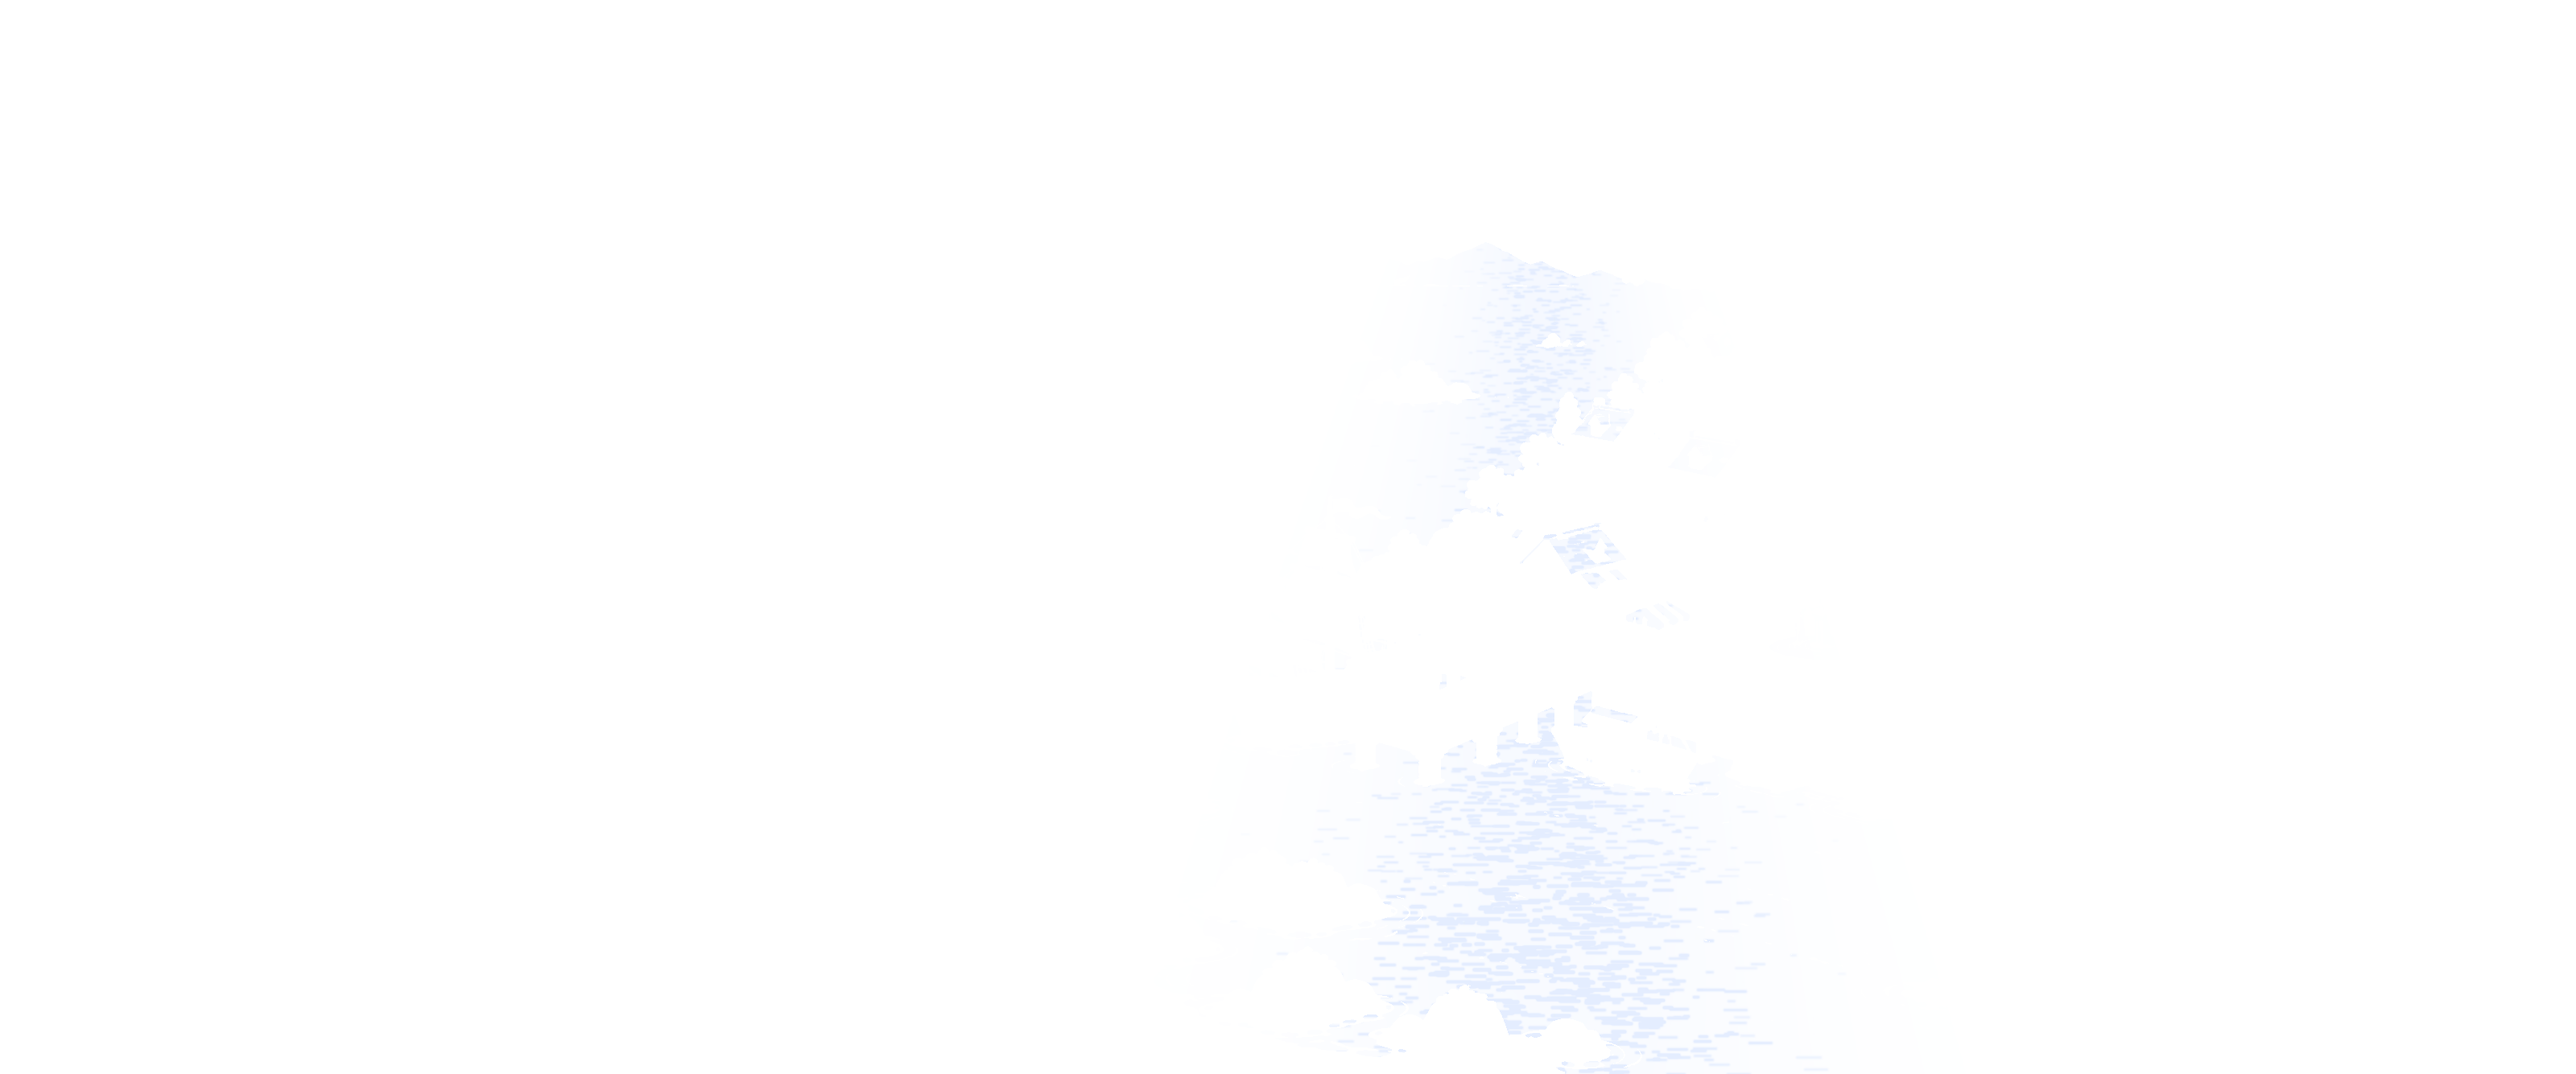
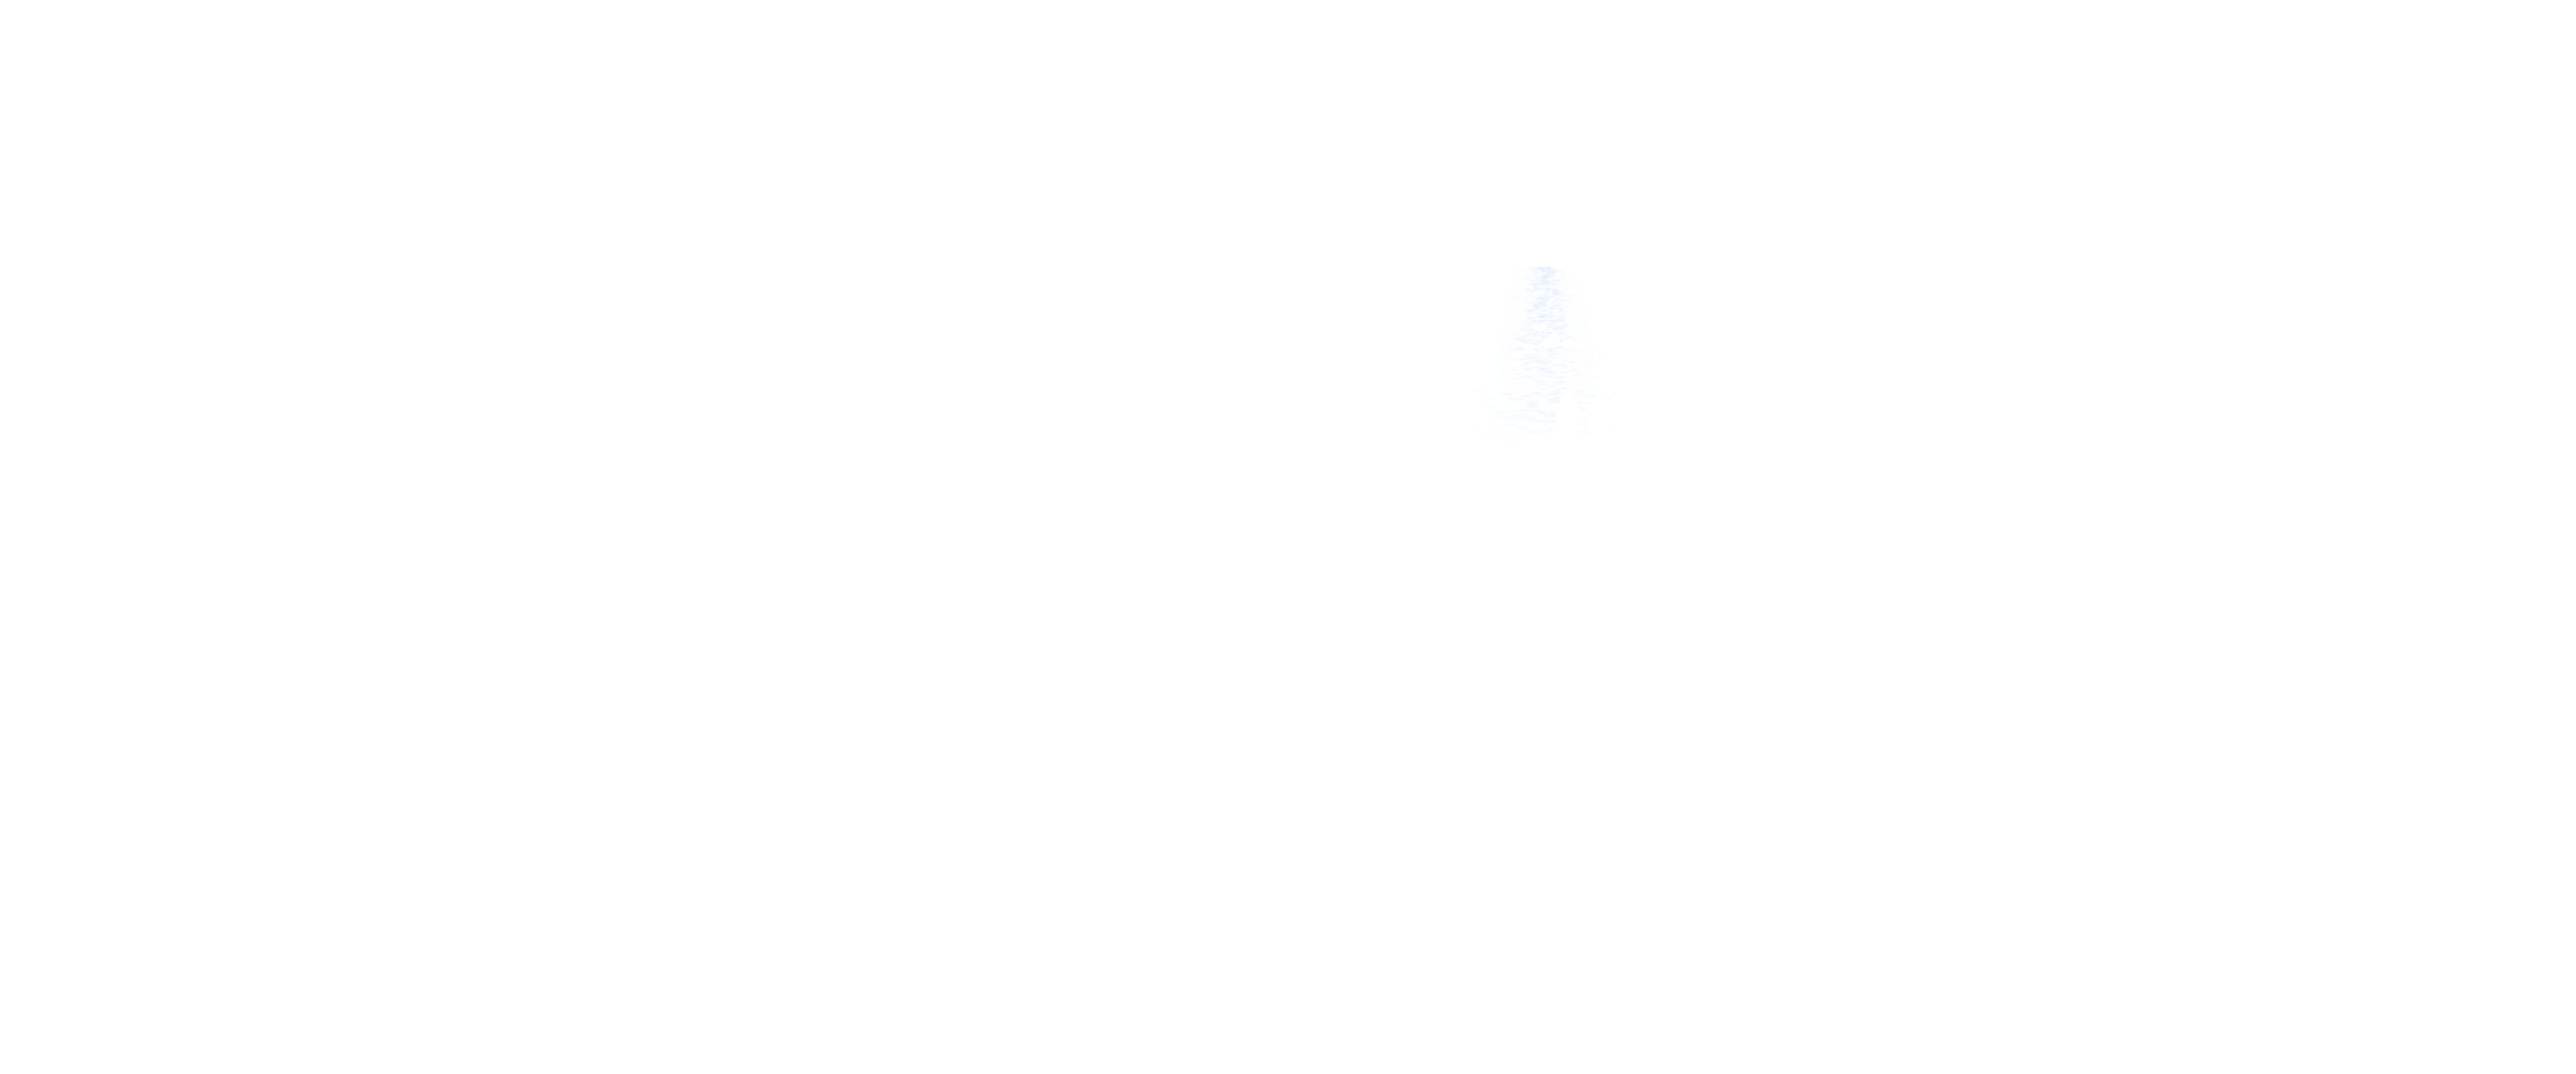
style(home): keep the moon path to the open sea and soften it
The glints stay on the sea under the moon and fade out above the harbour;
fewer, narrower and dimmer.

Changed region(s): [[0.5312, 0.6757, 0.6562, 1.0], [0.5938, 0.4914, 0.625, 0.5221]]

diff --git a/index.html b/index.html
@@ -2889,7 +2889,7 @@ assign art = '/assets/images/Redesign/' | relative_url %}
       html[data-mode="night"] .hero__birds {
         display: none;
       }
-      /* Moon path: silver glints on the water under the moon. Two glint layers cross-fade so the water shimmers. */
+      /* Moon path: soft silver glints on the open sea under the moon, fading out above the harbour. Two glint layers cross-fade so the water shimmers. */
       .hero__moonpath {
         position: absolute;
         inset: 0;
@@ -2908,10 +2908,10 @@ assign art = '/assets/images/Redesign/' | relative_url %}
       }
       @keyframes moon-shimmer {
         from {
-          opacity: 0.45;
+          opacity: 0.3;
         }
         to {
-          opacity: 1;
+          opacity: 0.85;
         }
       }
       @media (prefers-reduced-motion: reduce) {
